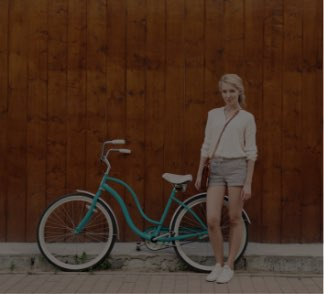
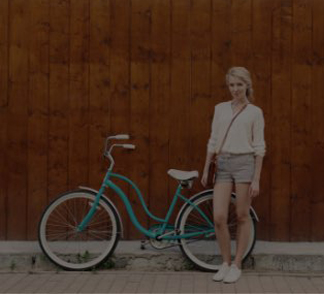
shadow applied

Changed region(s): [[0.0, 0.2143, 0.9568, 0.9796], [0.9568, 0.0, 1.0, 1.0], [0.2778, 0.8878, 0.3086, 0.9184]]

diff --git a/style.css b/style.css
@@ -77,6 +77,7 @@ main {
     padding: 45px 20px;
     box-sizing: border-box;
     border-radius: 3px;
+    box-shadow: 2px 5px 10px rgba(0, 0, 0, 0.249);
 }
 
 .herobox1 {
@@ -93,6 +94,7 @@ h1 {
     font-weight: 800;
     font-family:'Poppins', sans-serif;
     margin-bottom: 1rem;
+    text-shadow: 0px 2px 2px rgba(0, 0, 0, 0.235);
 }
 
 h2 {
@@ -130,6 +132,7 @@ p {
     color: #FC5E55;
     padding: 11px 25px;
     border-radius: 3px;
+    box-shadow: 0px 2px 2px rgba(0, 0, 0, 0.235);
 }
 
 a.button {
